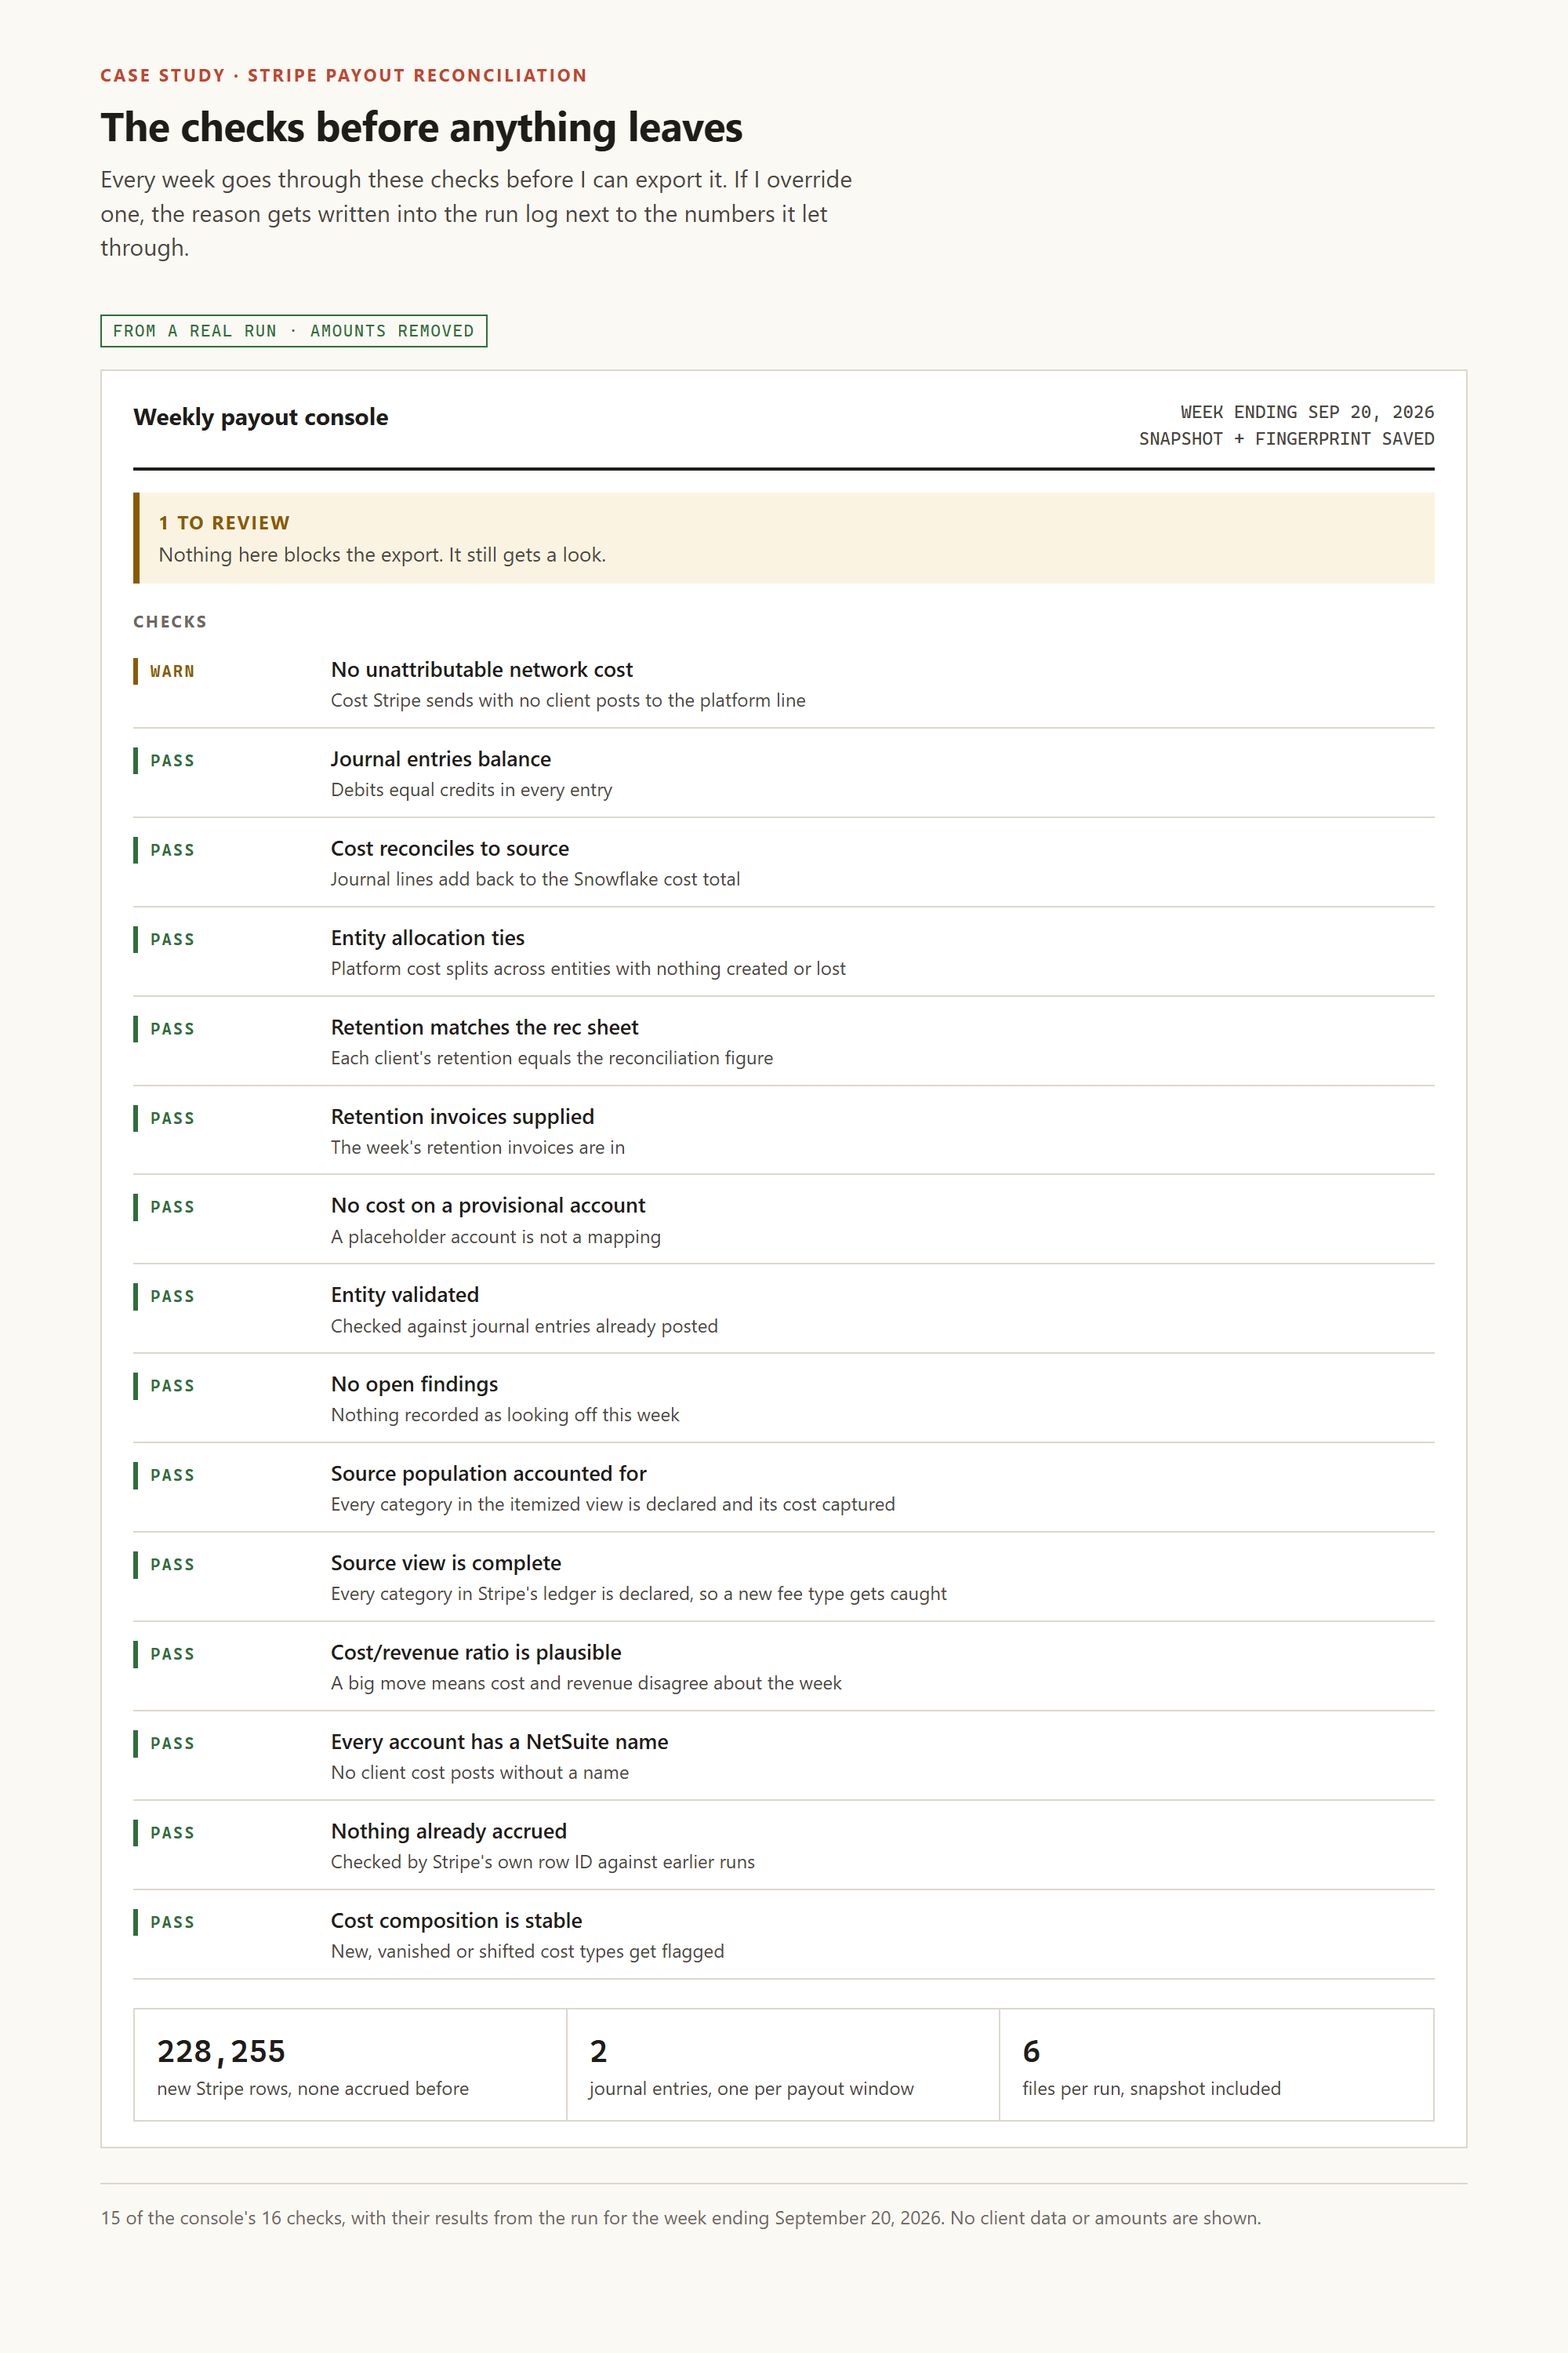
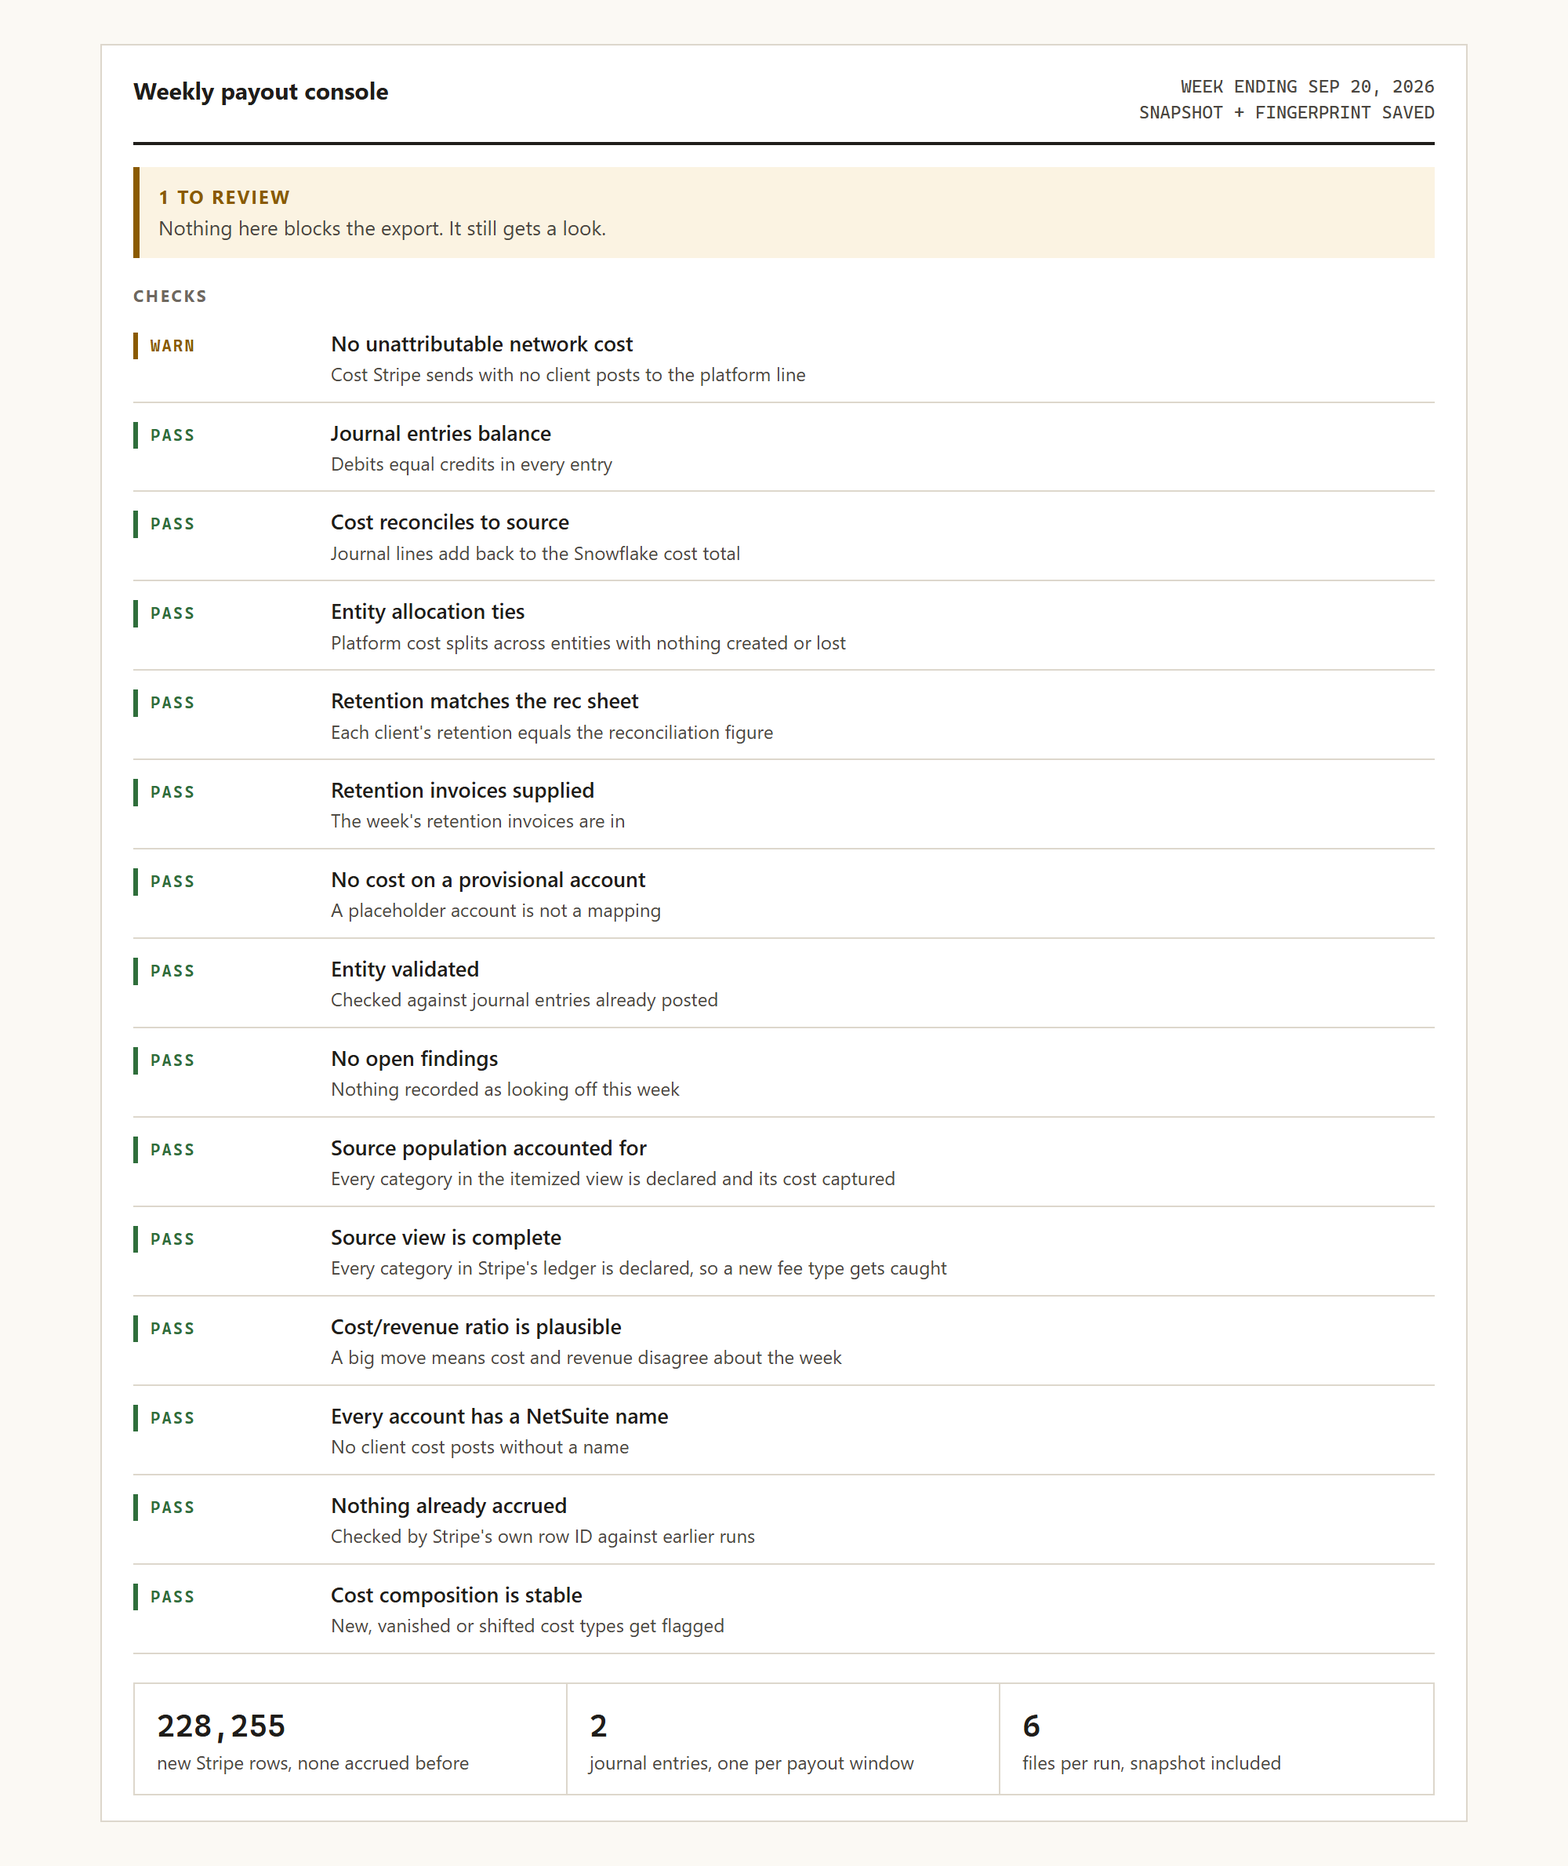
Dashboard and workbook screenshots on invented data; visuals match the new layout

Changed region(s): [[0.062, 0.0311, 0.93, 0.9643], [0.744, 0.0311, 0.93, 0.0622]]

diff --git a/case-studies/fpa-reporting-package.html b/case-studies/fpa-reporting-package.html
@@ -42,6 +42,11 @@ y=l.getElementsByTagName(r)[0];y.parentNode.insertBefore(t,y);
 <div><dt>Results</dt><dd>30 minutes to under 5 per run (timed) · 8 of 8 closed months tie two ways · no closed-month drift across 74 runs</dd></div>
 </dl>
 
+<figure>
+<a href="../visuals/png/fpa-dashboard-overview.png"><img src="../visuals/png/fpa-dashboard-overview.png" alt="The real dashboard running on invented data. Every name and number is made up, and its own checks still pass." loading="lazy"></a>
+<figcaption>The real dashboard running on invented data. Every name and number is made up, and its own checks still pass. Opens full size.</figcaption>
+</figure>
+
 <h2>The problem</h2>
 <p>Every time we closed a period I'd pull the reports, analyze the numbers and write the commentary, and every time something would have to change.</p>
 
@@ -65,6 +70,11 @@ y=l.getElementsByTagName(r)[0];y.parentNode.insertBefore(t,y);
 <li>The whole package exports in one click, plus a second version in the format the CEO expects.</li>
 </ul>
 
+<figure>
+<a href="../visuals/png/fpa-dashboard-bva.png"><img src="../visuals/png/fpa-dashboard-bva.png" alt="Budget vs actuals on the original budget, from the same invented-data copy." loading="lazy"></a>
+<figcaption>Budget vs actuals on the original budget, from the same invented-data copy. Opens full size.</figcaption>
+</figure>
+
 <h2>How I know it works</h2>
 <figure>
 <a href="../visuals/reporting-tieout.html"><img src="../visuals/png/reporting-tieout.png" alt="Every closed month so far this year against the two tie-outs and the drift check." loading="lazy"></a>
@@ -77,6 +87,16 @@ y=l.getElementsByTagName(r)[0];y.parentNode.insertBefore(t,y);
 <li>Every load of a month gets saved as a run instead of overwriting the last one, and a closed month that comes back different on a reload gets flagged. I wanted that so any adjustment shows up against what we already sent.</li>
 <li>From July 22 to September 11 there were 74 runs and no closed month changed on any of them. That also means the drift check hasn't been tested on a real change yet.</li>
 </ul>
+
+<figure>
+<a href="../visuals/png/fpa-bva-workbook.png"><img src="../visuals/png/fpa-bva-workbook.png" alt="The one-click budget-vs-actuals export, recalculated by Excel on invented data." loading="lazy"></a>
+<figcaption>The one-click budget-vs-actuals export, recalculated by Excel on invented data. Opens full size.</figcaption>
+</figure>
+
+<figure>
+<a href="../visuals/png/fpa-package-cover.png"><img src="../visuals/png/fpa-package-cover.png" alt="The reporting package&#x27;s cover and contents, exported in one click. Invented company name." loading="lazy"></a>
+<figcaption>The reporting package's cover and contents, exported in one click. Invented company name. Opens full size.</figcaption>
+</figure>
 
 <h2>Results</h2>
 <ul>

diff --git a/case-studies/stripe-payout-recon.html b/case-studies/stripe-payout-recon.html
@@ -80,6 +80,11 @@ y=l.getElementsByTagName(r)[0];y.parentNode.insertBefore(t,y);
 
 <h2>The console</h2>
 <figure>
+<a href="../visuals/png/console-summary.png"><img src="../visuals/png/console-summary.png" alt="The console itself, running on invented data: the run form and the week&#x27;s summary." loading="lazy"></a>
+<figcaption>The console itself, running on invented data: the run form and the week's summary. Opens full size.</figcaption>
+</figure>
+
+<figure>
 <a href="../visuals/payout-controls.html"><img src="../visuals/png/payout-controls.png" alt="The console&#x27;s checks, with their results from a real run and the amounts removed." loading="lazy"></a>
 <figcaption>The console's checks, with their results from a real run and the amounts removed. Opens full size.</figcaption>
 </figure>
@@ -101,6 +106,16 @@ y=l.getElementsByTagName(r)[0];y.parentNode.insertBefore(t,y);
 <li>Rebuilding the journal entries from the saved snapshot matched 14 of 16 client groups to the cent. The other two were a $0.03 fee with no account mapped and $0.01 of rounding.</li>
 <li>Running next to the manual process, the console exposed an error in one week's booked entry. Hand-typed date windows had given each week range an extra day that was already booked. I flagged it and it got fixed.</li>
 </ul>
+
+<figure>
+<a href="../visuals/png/console-journal-workbook.png"><img src="../visuals/png/console-journal-workbook.png" alt="The NetSuite journal entry import from the summary workbook every run writes. Invented data." loading="lazy"></a>
+<figcaption>The NetSuite journal entry import from the summary workbook every run writes. Invented data. Opens full size.</figcaption>
+</figure>
+
+<figure>
+<a href="../visuals/png/console-workpaper.png"><img src="../visuals/png/console-workpaper.png" alt="The audit workpaper every run writes: summary, fees by client, journal entries. Invented data." loading="lazy"></a>
+<figcaption>The audit workpaper every run writes: summary, fees by client, journal entries. Invented data. Opens full size.</figcaption>
+</figure>
 
 <h2>Results</h2>
 <ul>

diff --git a/visuals/visuals.css b/visuals/visuals.css
@@ -225,3 +225,9 @@ h1 { font-size: 26px; line-height: 1.2; font-weight: 650; margin: 0 0 8px; lette
         text-transform: uppercase; color: var(--ok); border: 1px solid var(--ok);
         padding: 2px 7px; margin-bottom: 14px; }
 .btnrow { display: flex; gap: 8px; flex-wrap: wrap; }
+
+/* Embedded in a case study (?embed): the page around it already has the title, intro and
+   source note, so the visual shows only its content. */
+.embed .kicker, .embed h1, .embed .dek, .embed .foot, .embed .illus, .embed .real,
+.embed .principle, .embed .before { display: none; }
+.embed .frame { padding-top: 28px; padding-bottom: 8px; }

diff --git a/visuals/payout-generations.html b/visuals/payout-generations.html
@@ -5,6 +5,7 @@
 <meta name="viewport" content="width=device-width, initial-scale=1">
 <title>Payout Reconciliation Generations</title>
 <link rel="stylesheet" href="visuals.css">
+
 <script async src="https://www.googletagmanager.com/gtag/js?id=G-Q32D4GRSG7"></script>
 <script>
 window.dataLayer = window.dataLayer || [];

diff --git a/visuals/reporting-tieout.html b/visuals/reporting-tieout.html
@@ -5,6 +5,7 @@
 <meta name="viewport" content="width=device-width, initial-scale=1">
 <title>Reporting Package Tie-Out</title>
 <link rel="stylesheet" href="visuals.css">
+
 <script async src="https://www.googletagmanager.com/gtag/js?id=G-Q32D4GRSG7"></script>
 <script>
 window.dataLayer = window.dataLayer || [];

diff --git a/visuals/reporting-package.html b/visuals/reporting-package.html
@@ -5,6 +5,7 @@
 <meta name="viewport" content="width=device-width, initial-scale=1">
 <title>Reporting Package Flow</title>
 <link rel="stylesheet" href="visuals.css">
+
 <script async src="https://www.googletagmanager.com/gtag/js?id=G-Q32D4GRSG7"></script>
 <script>
 window.dataLayer = window.dataLayer || [];

diff --git a/visuals/payout-controls.html b/visuals/payout-controls.html
@@ -5,6 +5,7 @@
 <meta name="viewport" content="width=device-width, initial-scale=1">
 <title>Payout Console Checks</title>
 <link rel="stylesheet" href="visuals.css">
+
 <script async src="https://www.googletagmanager.com/gtag/js?id=G-Q32D4GRSG7"></script>
 <script>
 window.dataLayer = window.dataLayer || [];
